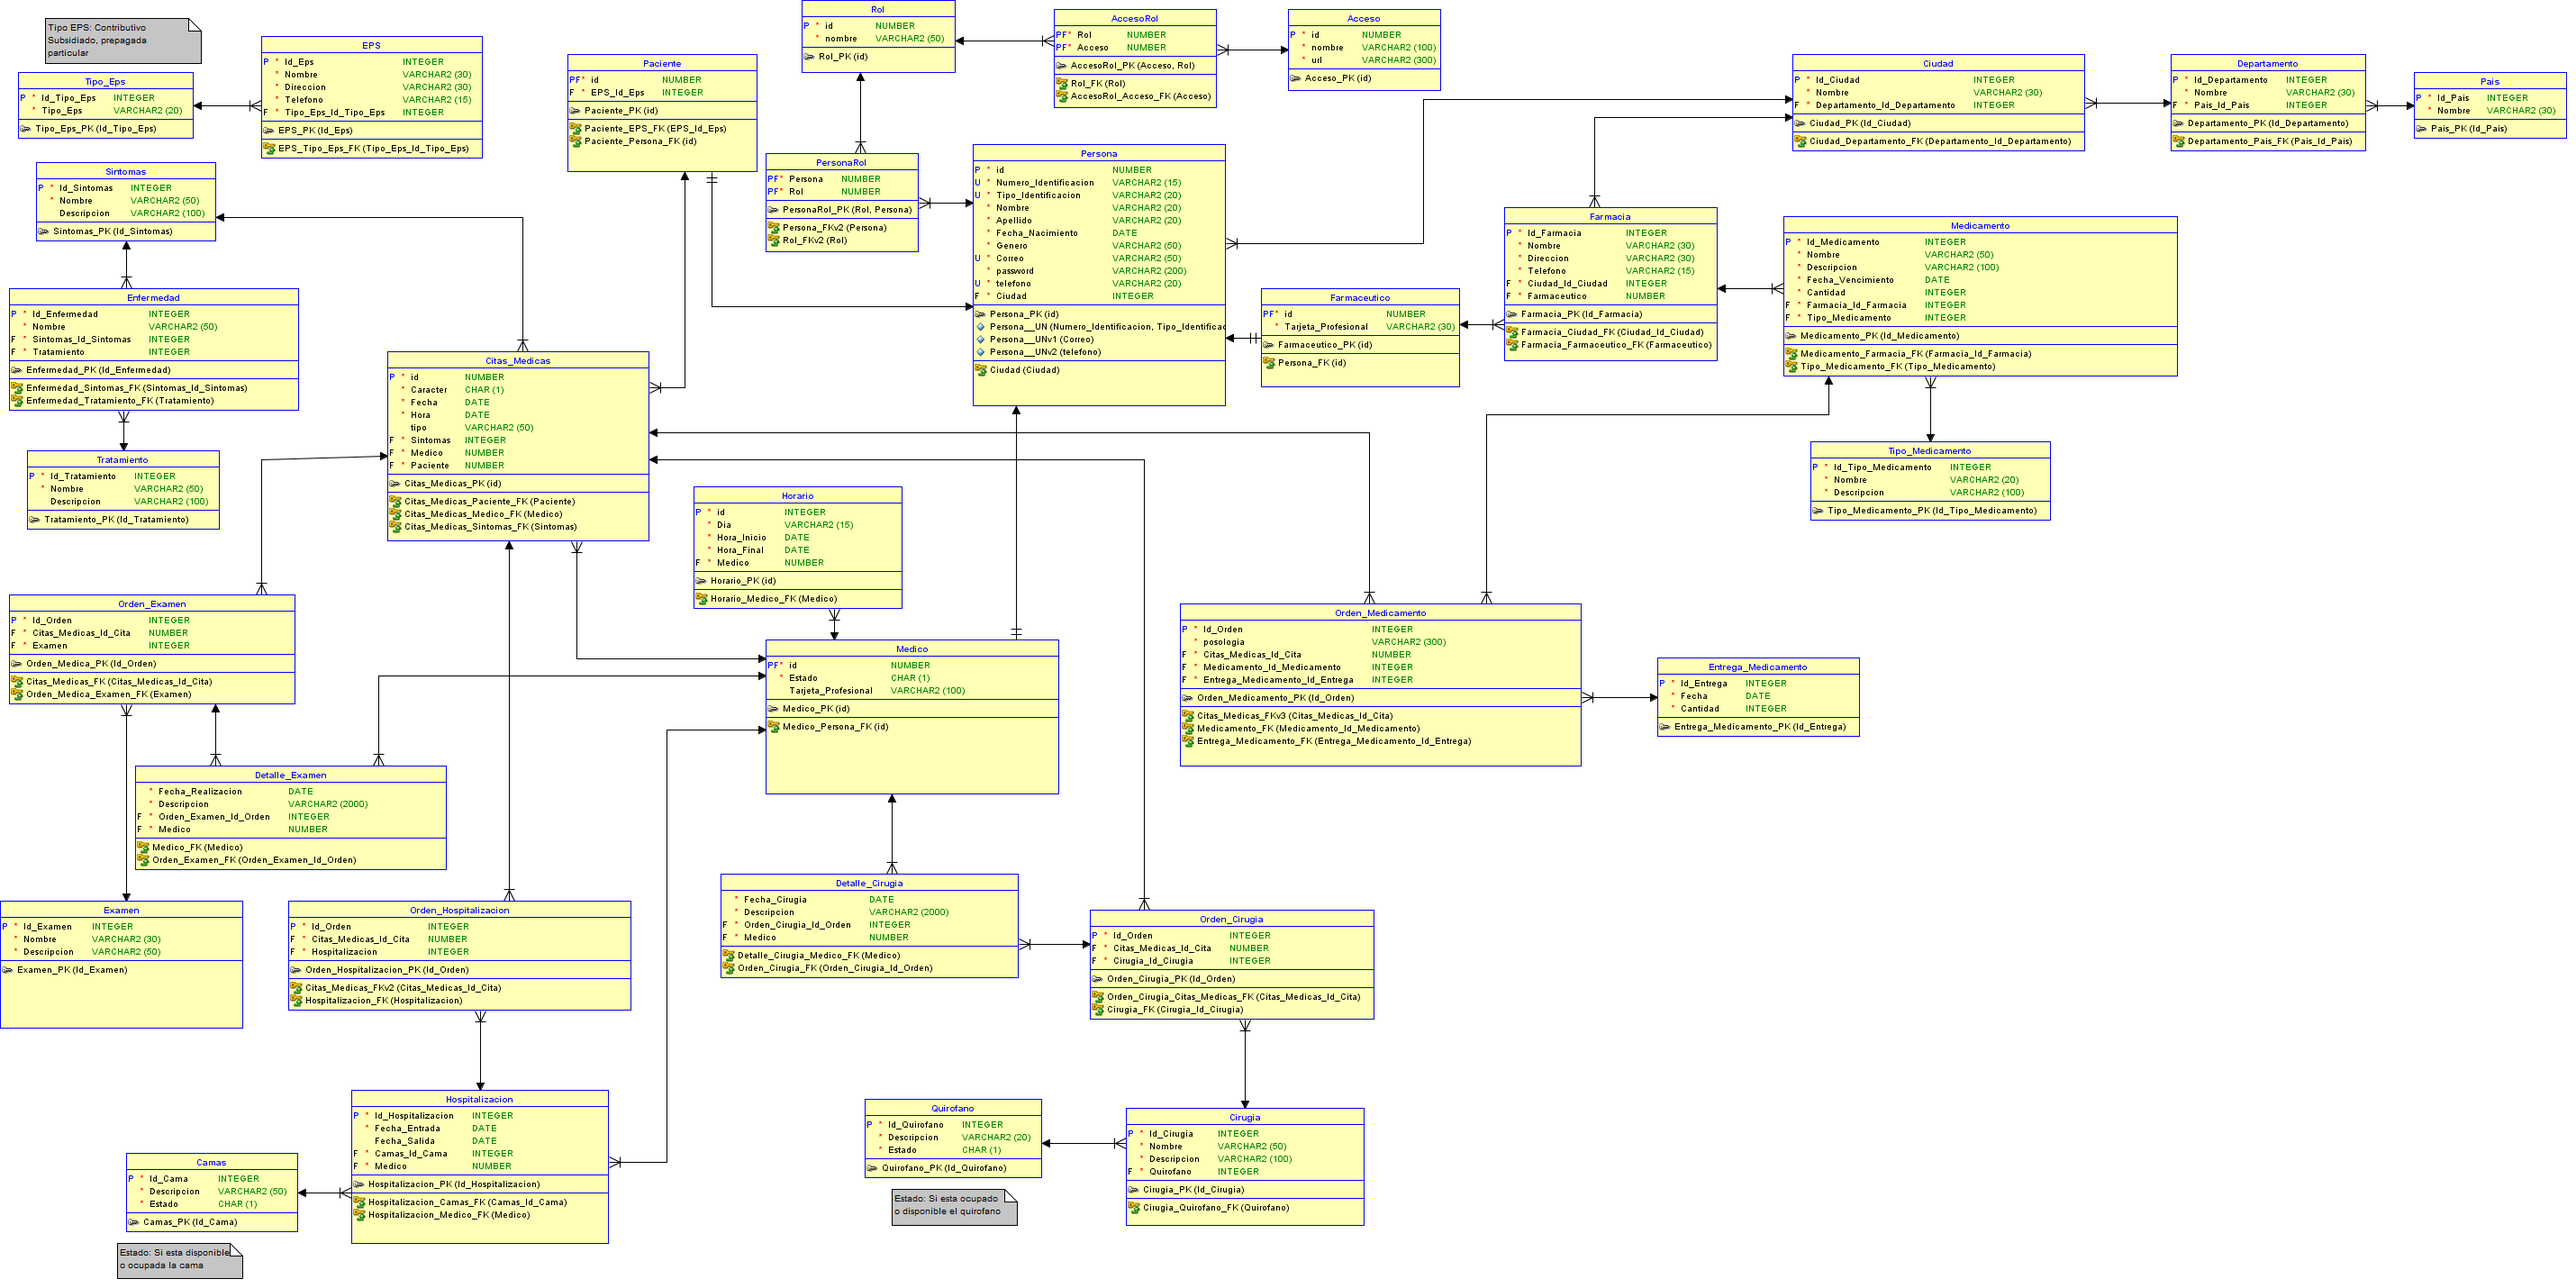
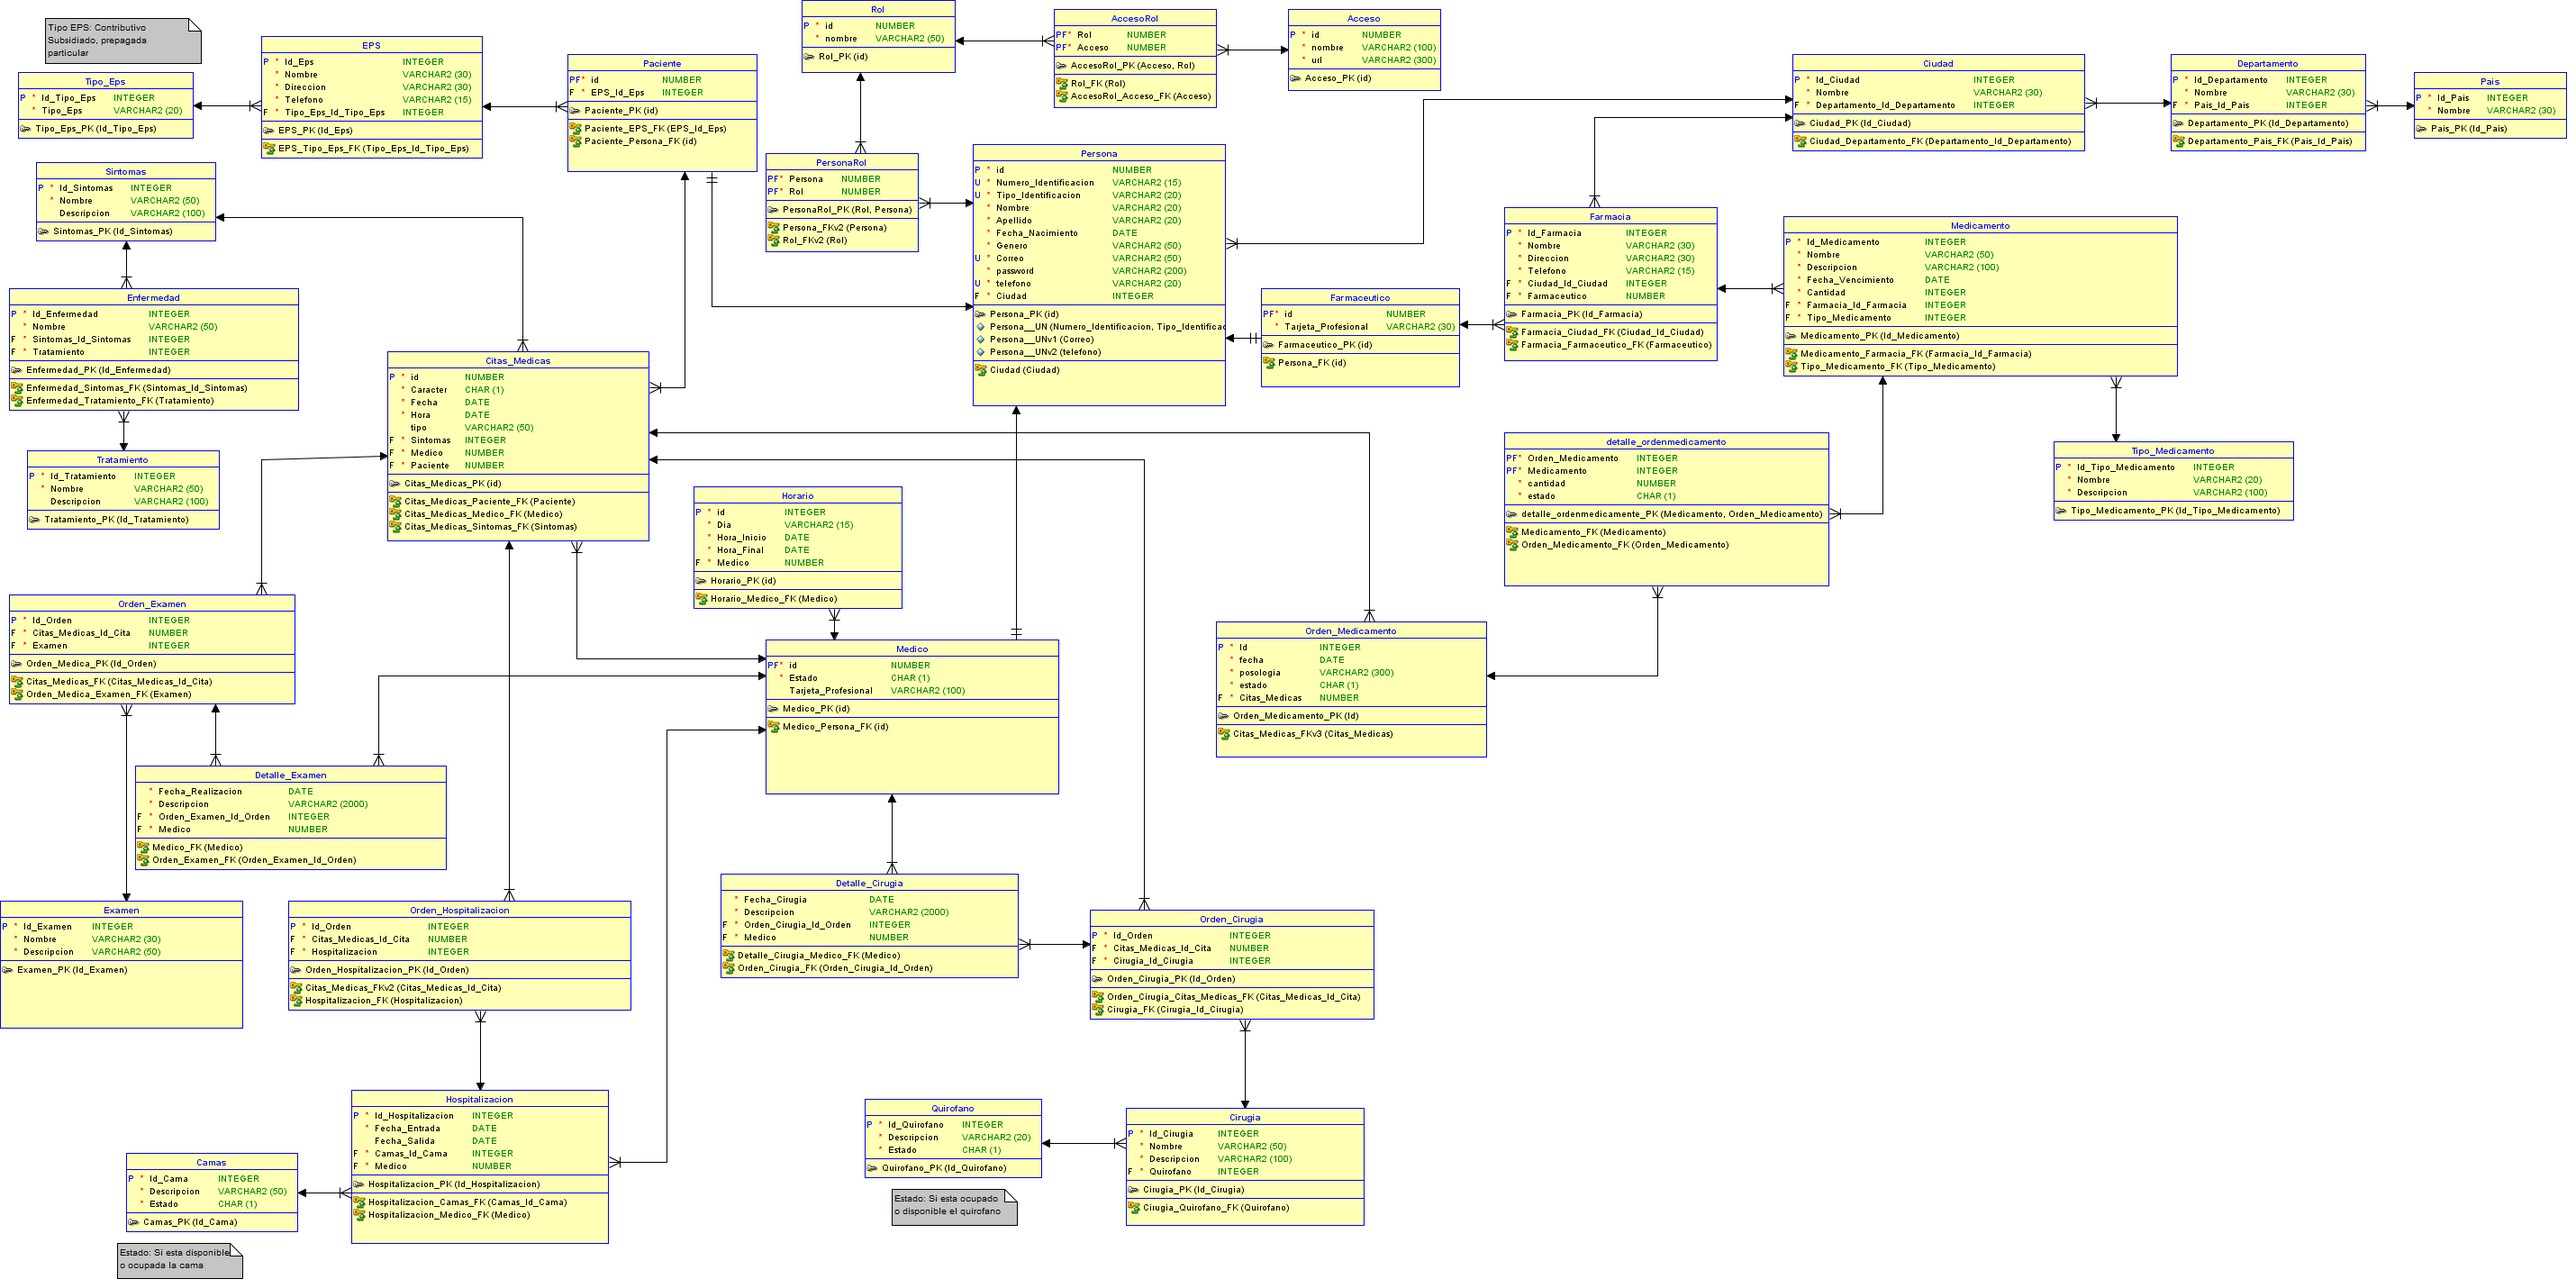
Proyecto Funciona al 100% de lo que llevamos.

Changed region(s): [[0.4357, 0.3077, 0.9024, 0.6154]]

diff --git a/hospital/hospital-persistencia/src/main/java/entidades/detalleOrdenMedicamente.java b/hospital/hospital-persistencia/src/main/java/entidades/detalleOrdenMedicamente.java
@@ -12,7 +12,7 @@ import javax.persistence.Table;
 import seguridad.AccesoRolPK;
 
 @Entity
-@Table(name="detalle_ordenmedicamente")
+@Table(name="detalle_ordenmedicamento")
 @IdClass(detalleOrdenMedicamentePK.class)
 public class detalleOrdenMedicamente implements Serializable{
 	@Id
@@ -25,7 +25,7 @@ public class detalleOrdenMedicamente implements Serializable{
 	@JoinColumn(name="Medicamento")
 	private Medicamento medicamento;
 	
-	@Column(name="cantidad")
+	@Column(name="cantidad",nullable = false)
 	private int cantidad;
 	
 	@Column(name="estado")
@@ -73,5 +73,36 @@ public class detalleOrdenMedicamente implements Serializable{
 
 	public void setEntregado(boolean entregado) {
 		this.entregado = entregado;
+	}
+
+	@Override
+	public int hashCode() {
+		final int prime = 31;
+		int result = 1;
+		result = prime * result + ((medicamento == null) ? 0 : medicamento.hashCode());
+		result = prime * result + ((ordenMedicamento == null) ? 0 : ordenMedicamento.hashCode());
+		return result;
+	}
+
+	@Override
+	public boolean equals(Object obj) {
+		if (this == obj)
+			return true;
+		if (obj == null)
+			return false;
+		if (getClass() != obj.getClass())
+			return false;
+		detalleOrdenMedicamente other = (detalleOrdenMedicamente) obj;
+		if (medicamento == null) {
+			if (other.medicamento != null)
+				return false;
+		} else if (!medicamento.equals(other.medicamento))
+			return false;
+		if (ordenMedicamento == null) {
+			if (other.ordenMedicamento != null)
+				return false;
+		} else if (!ordenMedicamento.equals(other.ordenMedicamento))
+			return false;
+		return true;
 	}	
 }

diff --git a/hospital/hospital-persistencia/src/main/java/entidades/OrdenMedicamento.java b/hospital/hospital-persistencia/src/main/java/entidades/OrdenMedicamento.java
@@ -9,16 +9,18 @@ import javax.persistence.GenerationType;
 import javax.persistence.Id;
 import javax.persistence.JoinColumn;
 import javax.persistence.ManyToOne;
+import javax.persistence.SequenceGenerator;
 import javax.persistence.Table;
 import javax.persistence.Temporal;
 import javax.persistence.TemporalType;
 
 @Entity
-@Table(name = "id")
+@Table(name = "Orden_Medicamento")
 public class OrdenMedicamento implements Serializable{
 	@Id
-	@Column(name="Id_Orden")
-	@GeneratedValue(strategy=GenerationType.IDENTITY)
+	@Column(name="Id")
+	@GeneratedValue(strategy = GenerationType.SEQUENCE,generator="SEQ_ORDEN_MEDICAMENTO") 
+	@SequenceGenerator(name="SEQ_ORDEN_MEDICAMENTO", sequenceName="SEQ_ORDEN_MEDICAMENTO",allocationSize=1) 
 	private int id;
 	
 	@Temporal(TemporalType.DATE)
@@ -98,5 +100,27 @@ public class OrdenMedicamento implements Serializable{
 	@Override
 	public String toString() {
 		return id+"";
+	}
+
+	@Override
+	public int hashCode() {
+		final int prime = 31;
+		int result = 1;
+		result = prime * result + id;
+		return result;
+	}
+
+	@Override
+	public boolean equals(Object obj) {
+		if (this == obj)
+			return true;
+		if (obj == null)
+			return false;
+		if (getClass() != obj.getClass())
+			return false;
+		OrdenMedicamento other = (OrdenMedicamento) obj;
+		if (id != other.id)
+			return false;
+		return true;
 	}	
 }

diff --git a/hospital/hospital-persistencia/src/main/java/entidades/detalleOrdenMedicamentePK.java b/hospital/hospital-persistencia/src/main/java/entidades/detalleOrdenMedicamentePK.java
@@ -1,6 +1,8 @@
 package entidades;
 
-public class detalleOrdenMedicamentePK {
+import java.io.Serializable;
+
+public class detalleOrdenMedicamentePK implements Serializable{
 	
 	private int ordenMedicamento;
 	private int medicamento;
@@ -11,6 +13,22 @@ public class detalleOrdenMedicamentePK {
 	public detalleOrdenMedicamentePK(int ordenMedicamento, int medicamento) {
 		super();
 		this.ordenMedicamento = ordenMedicamento;
+		this.medicamento = medicamento;
+	}
+	
+	public int getOrdenMedicamento() {
+		return ordenMedicamento;
+	}
+
+	public void setOrdenMedicamento(int ordenMedicamento) {
+		this.ordenMedicamento = ordenMedicamento;
+	}
+
+	public int getMedicamento() {
+		return medicamento;
+	}
+
+	public void setMedicamento(int medicamento) {
 		this.medicamento = medicamento;
 	}
 
@@ -38,20 +56,5 @@ public class detalleOrdenMedicamentePK {
 			return false;
 		return true;
 	}
-
-	public int getOrdenMedicamento() {
-		return ordenMedicamento;
-	}
-
-	public void setOrdenMedicamento(int ordenMedicamento) {
-		this.ordenMedicamento = ordenMedicamento;
-	}
-
-	public int getMedicamento() {
-		return medicamento;
-	}
-
-	public void setMedicamento(int medicamento) {
-		this.medicamento = medicamento;
-	}	
+	
 }

diff --git a/hospital/hospital-persistencia/src/main/java/entidades/Medicamento.java b/hospital/hospital-persistencia/src/main/java/entidades/Medicamento.java
@@ -164,9 +164,5 @@ public class Medicamento implements Serializable{
 		if (id != other.id)
 			return false;
 		return true;
-	}
-	
-	
-	
-	
+	}	
 }
